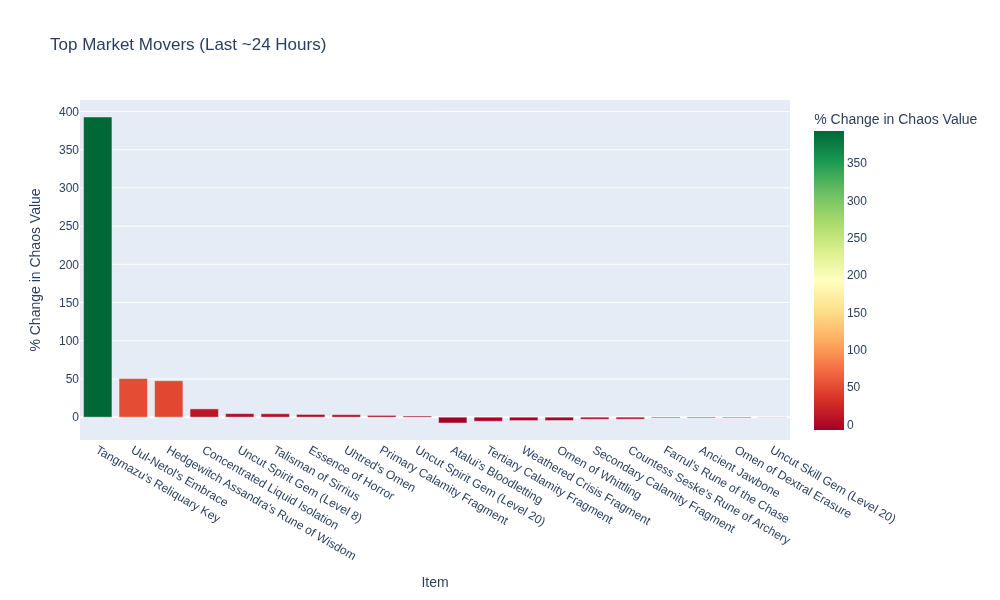
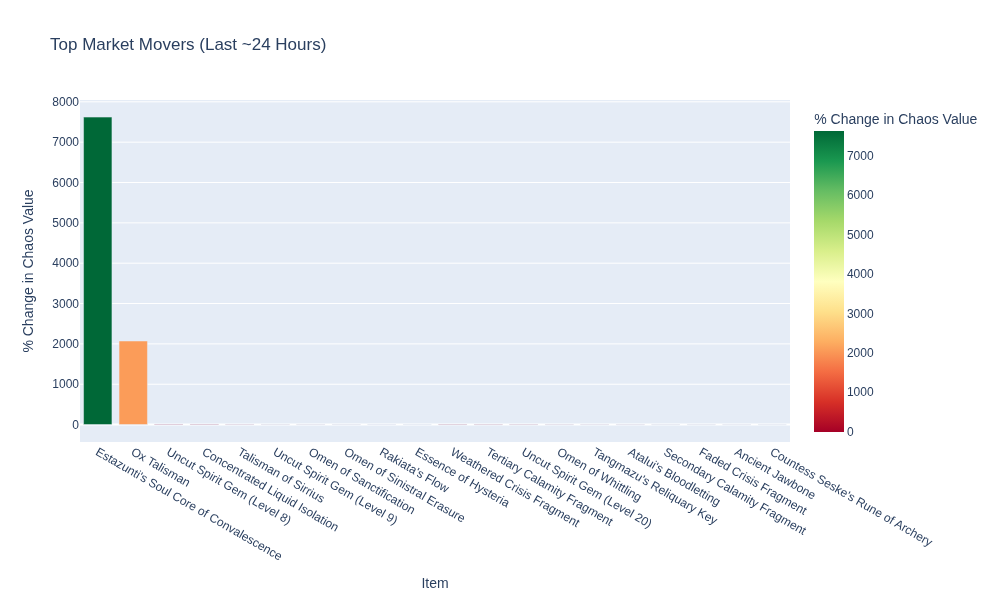
Update economy data and analysis

diff --git a/README.md b/README.md
@@ -7,8 +7,8 @@ This repository tracks Path of Exile 2 data.
 <!-- START_MAINTENANCE -->
 | Metric | Value |
 |:---|:---|
-| Last Successful Run (UTC) | `2025-10-02 02:46:11.897255` |
-| Total Price Entries in DB | `26,393` |
+| Last Successful Run (UTC) | `2025-10-02 03:50:30.245406` |
+| Total Price Entries in DB | `26,803` |
 
 <!-- END_MAINTENANCE -->
 
@@ -20,15 +20,15 @@ This repository tracks Path of Exile 2 data.
 | :--- | :--- | :--- |
 | Lineage Gems | Dialla's Desire | 664.5 |
 | Runes | Hedgewitch Assandra's Rune of Wisdom | 485.0 |
-| Soul Cores | Tzamoto's Soul Core of Ferocity | 229.7 |
-| Uncut Gems | Uncut Skill Gem (Level 10) | 229.7 |
-| Talismans | Talisman of Sirrius | 156.1 |
-| Abyssal Bones | Ancient Collarbone | 121.7 |
-| Omens | Omen of Chance | 115.2 |
-| Essences | Essence of Horror | 109.3 |
-| Fragments | Primary Calamity Fragment | 31.2 |
-| Currency | Divine Orb | 19.1 |
-| Distilled Emotions | Concentrated Liquid Isolation | 13.6 |
+| Soul Cores | Tzamoto's Soul Core of Ferocity | 231.6 |
+| Talismans | Ox Talisman | 231.6 |
+| Abyssal Bones | Ancient Collarbone | 121.9 |
+| Omens | Omen of Chance | 115.9 |
+| Essences | Essence of Horror | 110.5 |
+| Uncut Gems | Uncut Spirit Gem (Level 20) | 79.4 |
+| Fragments | Primary Calamity Fragment | 30.9 |
+| Currency | Divine Orb | 19.3 |
+| Distilled Emotions | Concentrated Liquid Isolation | 15.0 |
 | Catalysts | Reaver Catalyst | 0.8 |
 | Expedition | Exotic Coinage | 0.0 |
 
@@ -44,14 +44,14 @@ This repository tracks Path of Exile 2 data.
 | :--- | :--- |
 | Dialla's Desire | 664.5 |
 | Hedgewitch Assandra's Rune of Wisdom | 485.0 |
-| Rakiata's Flow | 398.3 |
-| Farrul's Rune of the Chase | 329.9 |
-| Tzamoto's Soul Core of Ferocity | 229.7 |
-| Uncut Skill Gem (Level 10) | 229.7 |
-| Countess Seske's Rune of Archery | 184.9 |
-| Soul Core of Tzamoto | 172.2 |
+| Rakiata's Flow | 405.6 |
+| Farrul's Rune of the Chase | 330.0 |
+| Ox Talisman | 231.6 |
+| Tzamoto's Soul Core of Ferocity | 231.6 |
+| Countess Seske's Rune of Archery | 182.1 |
+| Soul Core of Tzamoto | 173.7 |
+| Talisman of Sirrius | 165.9 |
 | Uul-Netol's Embrace | 158.5 |
-| Talisman of Sirrius | 156.1 |
 
 
 ![Market Movers Chart](charts/market_movers.png)
